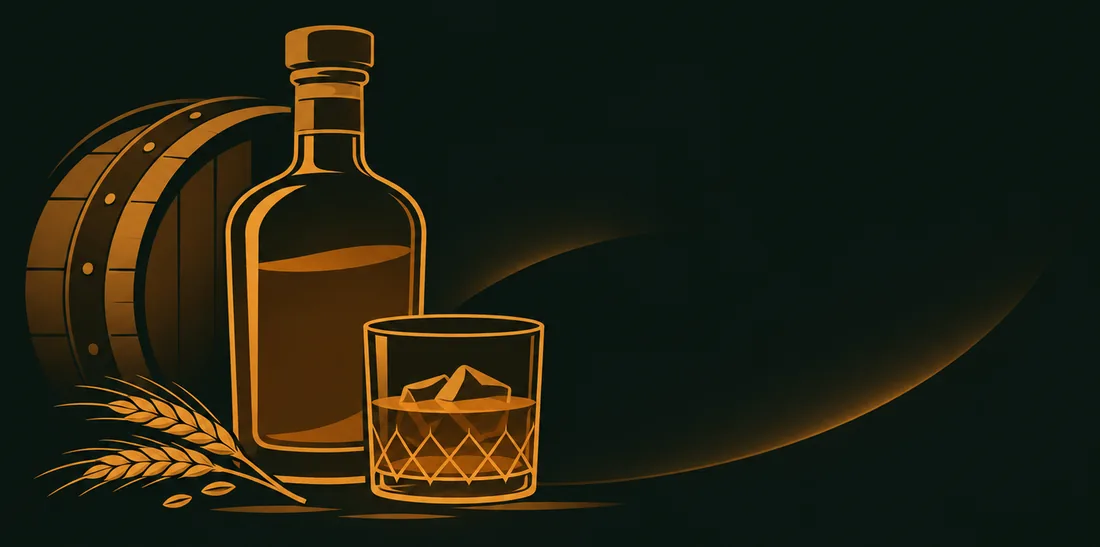
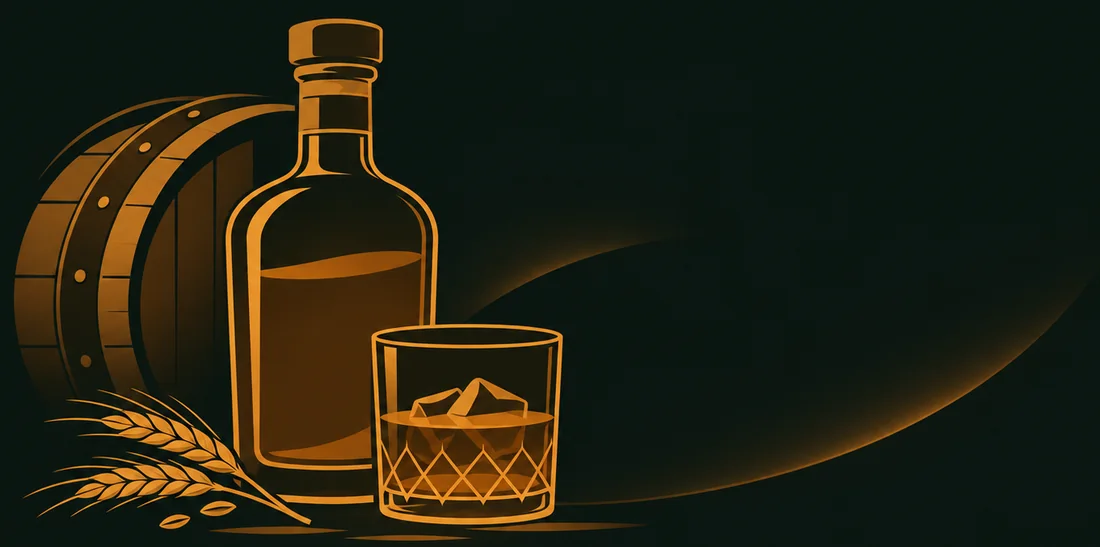
상단 일러스트 교체, 그림 전체가 보이도록 배치 변경

Changed region(s): [[0.0, 0.0311, 0.6182, 0.9945], [0.5873, 0.5905, 0.9582, 0.9013]]

diff --git a/index.html b/index.html
@@ -34,9 +34,9 @@ h2{font-family:var(--display);font-weight:700;font-size:22px;margin:0 0 6px}
   header{display:grid;grid-template-columns:minmax(0,62ch) minmax(0,1fr);column-gap:28px}
   header>:not(.hero){grid-column:1}
   .hero{display:block;grid-column:2;grid-row:1/span 3;position:relative;min-width:0}
-  .hero img{position:absolute;inset:0;width:100%;height:100%;object-fit:cover;object-position:0 40%;
-    -webkit-mask-image:linear-gradient(90deg,transparent,#000 10%,#000 62%,transparent),linear-gradient(180deg,transparent,#000 14%,#000 84%,transparent);
-    -webkit-mask-composite:source-in;mask-image:linear-gradient(90deg,transparent,#000 10%,#000 62%,transparent),linear-gradient(180deg,transparent,#000 14%,#000 84%,transparent);mask-composite:intersect}
+  .hero img{position:absolute;inset:0;width:100%;height:100%;object-fit:contain;object-position:0 50%;
+    -webkit-mask-image:linear-gradient(90deg,transparent,#000 10%,#000 62%,transparent),linear-gradient(180deg,transparent,#000 3%,#000 97%,transparent);
+    -webkit-mask-composite:source-in;mask-image:linear-gradient(90deg,transparent,#000 10%,#000 62%,transparent),linear-gradient(180deg,transparent,#000 3%,#000 97%,transparent);mask-composite:intersect}
   /* 밝은 바탕: 어두운 그림을 반전해 밝은 종이 위 갈색 선화처럼 보이게 하고, 곱하기 합성으로 바탕색에 녹인다 */
   :root:not([data-theme="dark"]) .hero img{filter:invert(1) hue-rotate(180deg) brightness(1.1) saturate(1.4);mix-blend-mode:multiply}
 }

diff --git a/tools/template.html b/tools/template.html
@@ -33,9 +33,9 @@ h2{font-family:var(--display);font-weight:700;font-size:22px;margin:0 0 6px}
   header{display:grid;grid-template-columns:minmax(0,62ch) minmax(0,1fr);column-gap:28px}
   header>:not(.hero){grid-column:1}
   .hero{display:block;grid-column:2;grid-row:1/span 3;position:relative;min-width:0}
-  .hero img{position:absolute;inset:0;width:100%;height:100%;object-fit:cover;object-position:0 40%;
-    -webkit-mask-image:linear-gradient(90deg,transparent,#000 10%,#000 62%,transparent),linear-gradient(180deg,transparent,#000 14%,#000 84%,transparent);
-    -webkit-mask-composite:source-in;mask-image:linear-gradient(90deg,transparent,#000 10%,#000 62%,transparent),linear-gradient(180deg,transparent,#000 14%,#000 84%,transparent);mask-composite:intersect}
+  .hero img{position:absolute;inset:0;width:100%;height:100%;object-fit:contain;object-position:0 50%;
+    -webkit-mask-image:linear-gradient(90deg,transparent,#000 10%,#000 62%,transparent),linear-gradient(180deg,transparent,#000 3%,#000 97%,transparent);
+    -webkit-mask-composite:source-in;mask-image:linear-gradient(90deg,transparent,#000 10%,#000 62%,transparent),linear-gradient(180deg,transparent,#000 3%,#000 97%,transparent);mask-composite:intersect}
   /* 밝은 바탕: 어두운 그림을 반전해 밝은 종이 위 갈색 선화처럼 보이게 하고, 곱하기 합성으로 바탕색에 녹인다 */
   :root:not([data-theme="dark"]) .hero img{filter:invert(1) hue-rotate(180deg) brightness(1.1) saturate(1.4);mix-blend-mode:multiply}
 }
